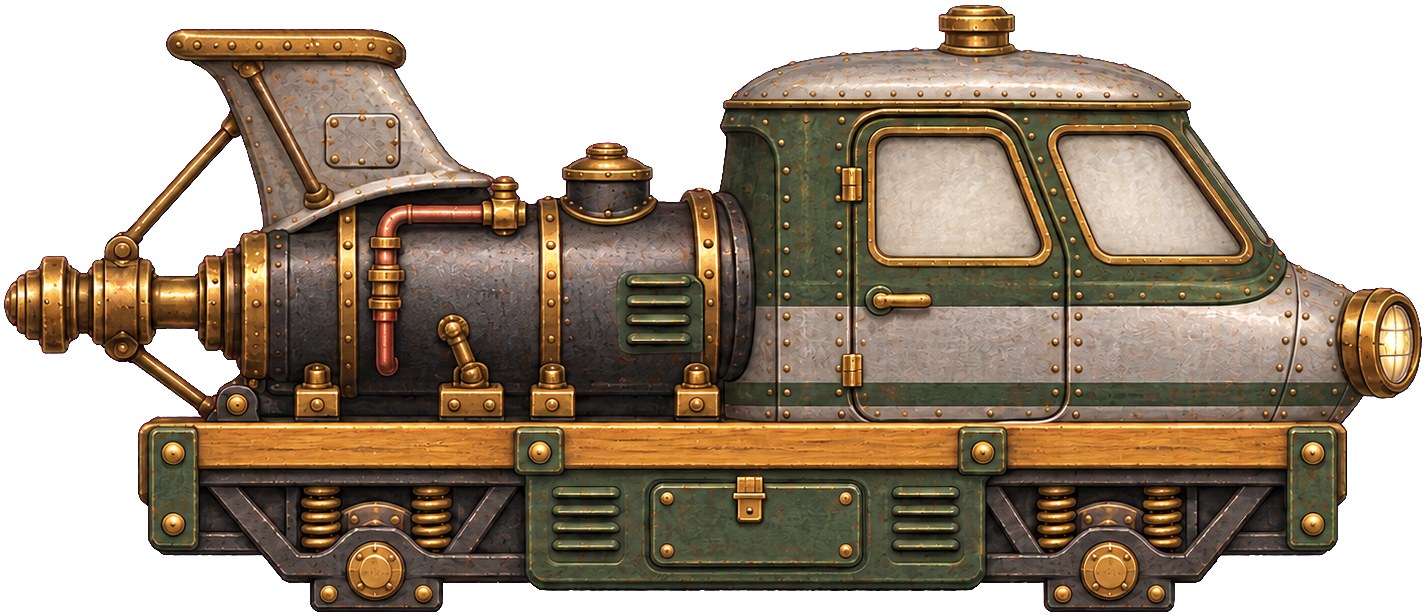
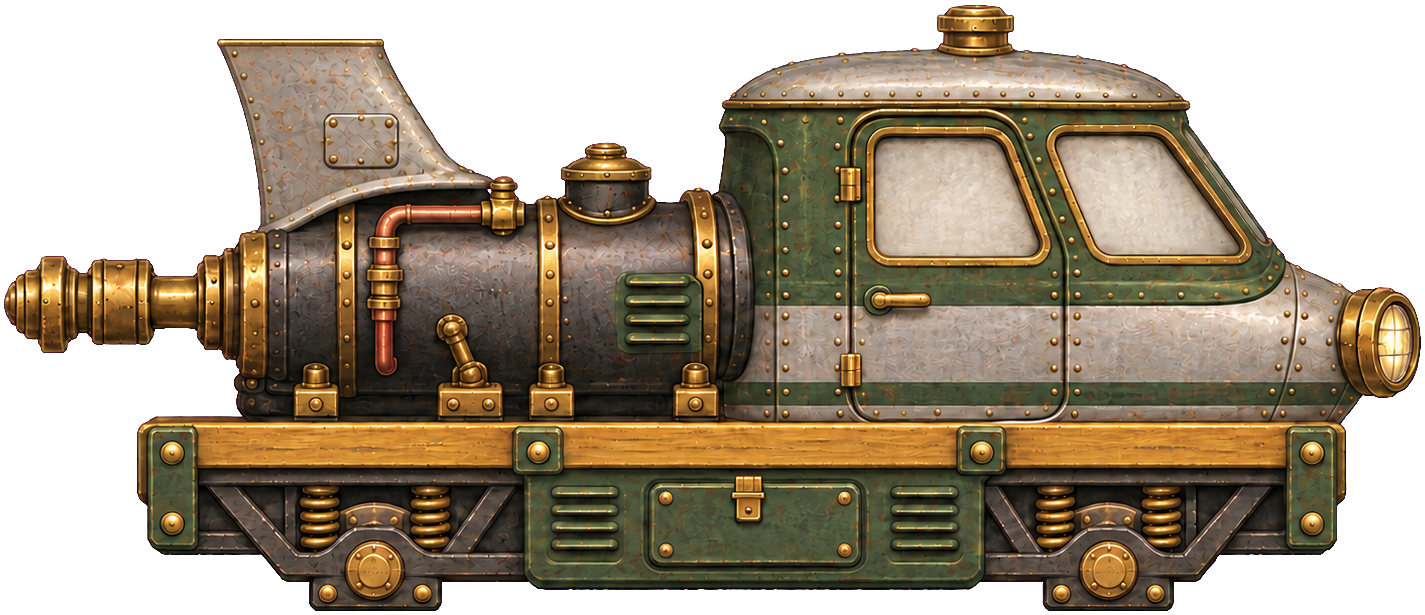
П14: переделанный чистый кузов цеппелина принят (подключение на этапе большой графики)

diff --git a/docs/MORNING_2026-11-07_RU.md b/docs/MORNING_2026-11-07_RU.md
@@ -6,7 +6,7 @@
 1. **Решения из твоих ответов:** четвёртый вагон W04 (900 монет, реактивный тянет до четырёх, вид сам отъезжает); вёсла стали дешёвым улучшением (120 монет); топливо цеппелина дороже (заправка 1800, расход ×2,75); план обновлён.
 2. **Режим рекордов:** вкладка «Рекорды» в депо (в творческом всегда, в карьере после финала): по каждой машине лучшее время «туда», «обратно» и высшая скорость, уведомление при новом рекорде. Проверено и на настоящем рейсе по физике.
 3. **Все 18 гаджетов теперь работают** (карточки в лудке выпадают все): маховик, храповик, запасной баллон, автоматический редуктор, пого-шест, **кошка с лебёдкой** (настоящий крюк на тросе: кнопка «Кошка [G]», бросок по дуге на ближайшую опору, лебёдка тянет, куст и пень вырываются), закись азота (кнопка «Нитро»), автоматическая КПП (селектор Д/Н/З). Подробности в `docs/GADGET_EFFECTS_PROPOSAL_RU.md`.
-4. **Картинки от GPT приняты и подключены:** П15 (пламя и дым реактивного по тяге, форсаж, парашют, детали панели пуска), П16 (гребец в трёх позах и весло), П12 (детали гаджетов рисуются на корпусе всех девяти машин). П14: лист подвижных деталей принят, **чистый кузов цеппелина прислан с лишним оперением, заказана переделка** (`briefs/P14_zeppelin_parts/REDO_A1_RU.md`, в очереди).
+4. **Картинки от GPT приняты и подключены:** П15 (пламя и дым реактивного по тяге, форсаж, парашют, детали панели пуска), П16 (гребец в трёх позах и весло), П12 (детали гаджетов рисуются на корпусе всех девяти машин). П14: лист подвижных деталей принят; первый чистый кузов цеппелина был с лишним оперением, GPT переделал его (03:46), новый **принят, но не подключён**: у него другие пропорции, надо заново подогнать оси подвижных частей, оставил на этап «большой графики».
 5. **Найден и исправлен старый баг:** на заднем ходу бензиновой табло передач обрывалось с ошибкой.
 6. Журнал изменений для следующей версии: `docs/CHANGELOG_RU.md`, раздел «Готовится».
 

diff --git a/tools/art_sources/ART_QUEUE.md b/tools/art_sources/ART_QUEUE.md
@@ -29,7 +29,7 @@ Never draw letters, numbers or readable text on the images. Never draw the card 
 | P6 | Станции E и F (3 images) | DONE (accepted, see art_tracker) | tools/art_sources/briefs/P6_stations_ef/TASK_FOR_GPT.md | tools/art_sources/inbox/P6_stations_ef/ |
 | P12 | Gadgets on machines: 9 machine images with two gadgets each, 2 sheets of 18 parts, and a Russian text file GADGET_TEXTS_RU.md (GPT designs the look and writes the descriptions; READ the sources listed in the brief first) | DONE (accepted, see art_tracker) | tools/art_sources/briefs/P12_gadgets_on_machines/TASK_FOR_GPT.md | tools/art_sources/inbox/P12_gadgets_on_machines/ |
 | P13 | Pole truck: an EMPTY own platform (1 image) and a 3x3 sheet of small parts | DONE | tools/art_sources/briefs/P13_pole_truck/TASK_FOR_GPT.md | tools/art_sources/inbox/P13_pole_truck/ |
-| P14 | Rail zeppelin: a CLEAN body (no tail plane, wing pod and propeller blades; the engine behind them painted in) and a 3x3 sheet of the movable parts | waiting for GPT (REDO A1 ONLY: the parts sheet is accepted; read briefs/P14_zeppelin_parts/REDO_A1_RU.md: the clean body still has the horizontal tail plate on the fin and two diagonal struts) | tools/art_sources/briefs/P14_zeppelin_parts/TASK_FOR_GPT.md | tools/art_sources/inbox/P14_zeppelin_parts/ |
+| P14 | Rail zeppelin: a CLEAN body (no tail plane, wing pod and propeller blades; the engine behind them painted in) and a 3x3 sheet of the movable parts | DONE (07.11: the redone body accepted; NOT yet connected to the game: it has other proportions than the old cut body, the pivots of the movable parts must be fitted again; do it at the big graphics stage) | tools/art_sources/briefs/P14_zeppelin_parts/TASK_FOR_GPT.md | tools/art_sources/inbox/P14_zeppelin_parts/ |
 | P15 | Rocket railcar parts: a 3x3 sheet of exhaust flames and smoke, a 2x2 sheet of the parachute (pack, open, collapsed, cut away), a 3x3 sheet of the start panel parts (cap closed and open, toggle up and down, lamp off and on, start button locked, armed, burning) | DONE (accepted 07.11) | tools/art_sources/briefs/P15_jet_parts/TASK_FOR_GPT.md | tools/art_sources/inbox/P15_jet_parts/ |
 | P16 | Oars of the sail car: a 3x3 sheet of oar parts and a landscape image of the rower in three poses (catch, drive, recovery) | DONE (accepted 07.11) | tools/art_sources/briefs/P16_oars/TASK_FOR_GPT.md | tools/art_sources/inbox/P16_oars/ |
 | STYLE-TEST | ONE card (Wheel of Fortune) in styles 2-7 for the owner to choose a style; style 1 (painting) already exists as card_10_wheel_of_fortune.png | DONE | tools/art_sources/briefs/P10_tarot_cards/STYLE_TEST_RU.md (use the English text blocks; send each as its own image) | tools/art_sources/inbox/P10_tarot_cards/styles/ (names style_2_origami.png, style_3_symbolism.png, style_4_minimal_geometry.png, style_5_artdeco.png, style_6_engraving.png, style_7_stained_glass.png) |
